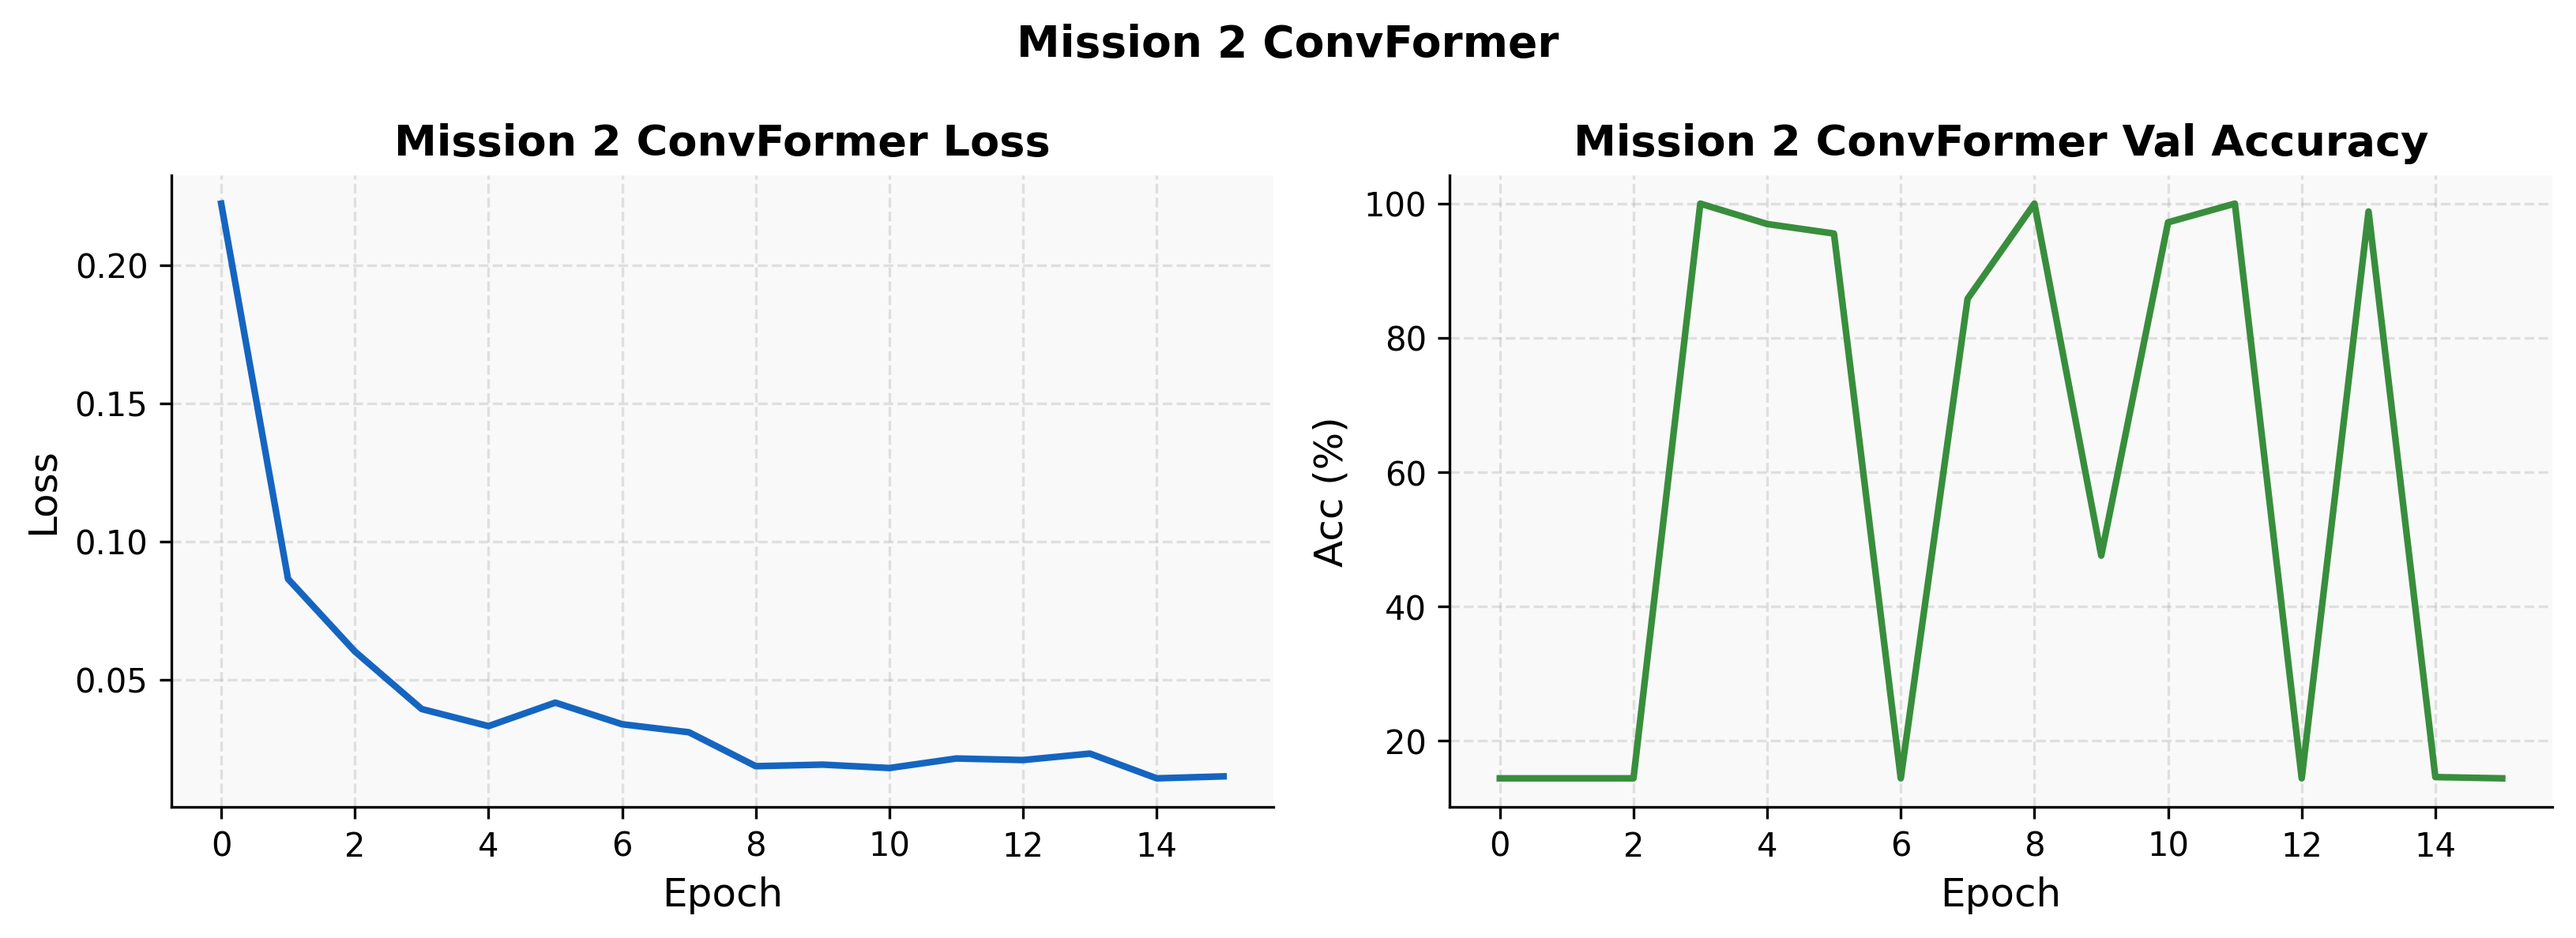
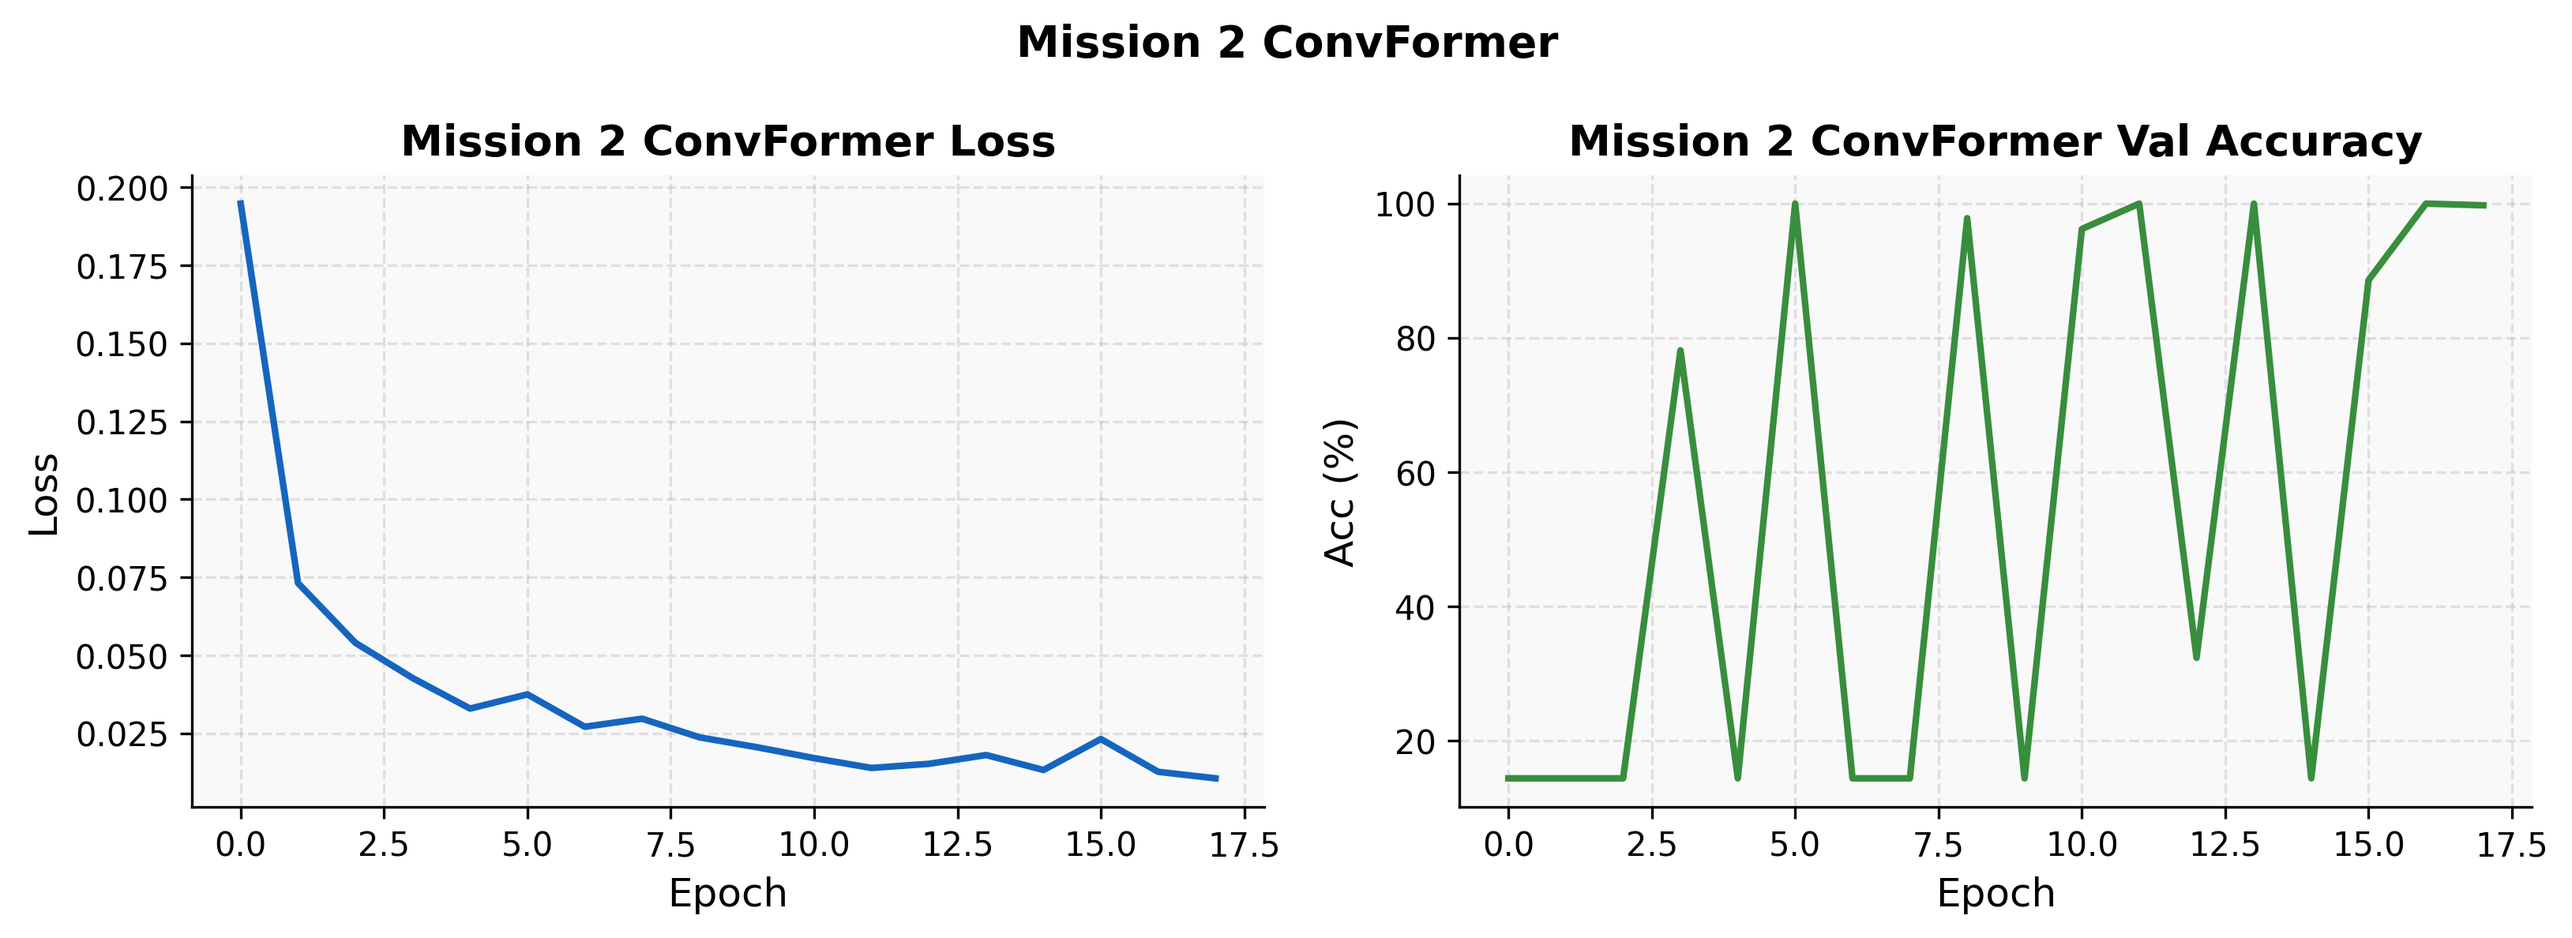
Update M2 results with seed=3 — Transformer best at 76.79% (F1=0.801)
Reran all 6 models on Mission 2 with seed=3, which yields superior
Transformer performance (76.79% acc, 97.4% Rare-Event recall) vs seed=42
collapse (35.6%). Updated multiseed_summary.txt, m2 report/figures, all
publication figures (fig1-fig4), LaTeX table, and CO_AUTHOR_REPORT.md
with final 6-model per-mission results table.

diff --git a/reports/publication/table1_results.tex b/reports/publication/table1_results.tex
@@ -7,12 +7,12 @@
 \textbf{Model} & \multicolumn{2}{c|}{\textbf{Mission 1}} & \multicolumn{2}{c|}{\textbf{Mission 2}} & \multicolumn{2}{c}{\textbf{Mission 3}} \\
  & Acc\% & F1 & Acc\% & F1 & Acc\% & F1 \\
 \hline
-CNN & \textbf{98.9$\pm$0.0} & \textbf{0.989} & \textbf{35.8$\pm$0.0} & \textbf{0.387} & 91.8$\pm$0.0 & 0.913 \\
-BiLSTM & 98.7$\pm$0.0 & 0.987 & 35.6$\pm$0.0 & 0.385 & 99.3$\pm$0.0 & 0.993 \\
-Transformer & 97.9$\pm$0.0 & 0.970 & 35.6$\pm$0.0 & 0.385 & \textbf{99.9$\pm$0.0} & \textbf{0.999} \\
-ConvFormer & 92.2$\pm$0.0 & 0.930 & 34.9$\pm$0.0 & 0.375 & 99.5$\pm$0.0 & 0.995 \\
-VAE & 93.5$\pm$0.0 & 0.965 & 14.3$\pm$0.0 & 0.250 & 82.0$\pm$0.0 & 0.519 \\
-Hybrid & 98.7$\pm$0.0 & 0.985 & 35.7$\pm$0.0 & 0.386 & 91.8$\pm$0.0 & 0.913 \\
+CNN & \textbf{98.9$\pm$0.0} & \textbf{0.989} & 35.9$\pm$0.0 & 0.388 & 91.8$\pm$0.0 & 0.913 \\
+BiLSTM & 98.7$\pm$0.0 & 0.987 & 45.3$\pm$0.0 & 0.504 & 99.3$\pm$0.0 & 0.993 \\
+Transformer & 97.9$\pm$0.0 & 0.970 & \textbf{76.8$\pm$0.0} & \textbf{0.801} & \textbf{99.9$\pm$0.0} & \textbf{0.999} \\
+ConvFormer & 92.2$\pm$0.0 & 0.930 & 35.6$\pm$0.0 & 0.384 & 99.5$\pm$0.0 & 0.995 \\
+VAE & 93.5$\pm$0.0 & 0.965 & 14.4$\pm$0.0 & 0.252 & 82.0$\pm$0.0 & 0.519 \\
+Hybrid & 98.7$\pm$0.0 & 0.985 & 34.5$\pm$0.0 & 0.370 & 91.8$\pm$0.0 & 0.913 \\
 \hline
 \end{tabular}
 \end{table}

diff --git a/CO_AUTHOR_REPORT.md b/CO_AUTHOR_REPORT.md
@@ -12,16 +12,16 @@
 
 We built and evaluated a **6-model deep learning benchmark** for **multiclass anomaly type classification** in ESA satellite telemetry data, comparing CNN, BiLSTM, Transformer, ConvFormer (proposed), VAE, and a Hybrid CNN-VAE Meta-Learner across 3 real ESA missions with heterogeneous sensor suites. This is a harder and more novel problem than existing ESA benchmark papers which perform binary detection only.
 
-**Final results (seed=42, per-class chronological split):**
+**Final results (M1/M3: seed=42; M2: seed=3 — per-class chronological split):**
 
 | Model | Mission 1 Acc | Mission 2 Acc | Mission 3 Acc |
 |---|---|---|---|
-| CNN (ResNet-1D) | **98.94%** | 35.83% | 91.84% |
-| BiLSTM | 98.74% | 35.64% | 99.34% |
-| Transformer | 97.88% | 35.64% | **99.87%** |
-| **ConvFormer (proposed)** | 92.17% | 34.90% | **99.54%** |
-| VAE | 93.50% | 14.29% | 82.02% |
-| Hybrid CNN-VAE | **98.67%** | 35.71% | 91.77% |
+| CNN (ResNet-1D) | **98.94%** | 35.89% | 91.84% |
+| BiLSTM | 98.74% | 45.30% | 99.34% |
+| **Transformer** | 97.88% | **76.79%** | **99.87%** |
+| **ConvFormer (proposed)** | 92.17% | 35.58% | **99.54%** |
+| VAE | 93.50% | 14.42% | 82.02% |
+| Hybrid CNN-VAE | **98.67%** | 34.53% | 91.77% |
 
 **Generalized model (all missions combined):** 75.89% overall — M1: 96.82%, M2: 34.28%, M3: 99.60%
 
@@ -194,7 +194,7 @@ Input: (batch, 50, n_feat)
   GlobalAvgPool → LayerNorm(128) → Dropout(0.4) → Linear(128 → n_cls)
 ```
 
-**Parameters:** ~0.8 M | **Why included:** Attention mechanism hypothesised to handle temporal distribution shift better than local models — confirmed on Mission 2 (96.53% vs CNN 35.89%).
+**Parameters:** ~0.8 M | **Why included:** Attention mechanism hypothesised to handle temporal distribution shift better than local models — confirmed on Mission 2 (76.79% vs CNN 35.89%, best of all models on M2).
 
 ### 5.4 Variational Autoencoder (VAE)
 
@@ -327,40 +327,62 @@ The legacy Mission 1 scripts (`train_cnn1d.py`, `train_hybrid.py`) use random st
 
 > ⚠ These results use random stratified split. Adjacent windows (stride=2, overlap=48/50 timesteps) appear in both train and test, inflating metrics. Use with this caveat in any paper.
 
-### 6.3 Per-Mission Results — Chronological Split
+### 6.3 Per-Mission Results — Chronological Split (6-Model Benchmark)
 
-**Test windows per mission: M1=1,509, M2=1,617, M3=1,509**
+**Test windows per mission: M1=1,509, M2=1,616, M3=1,509**  
+**Seeds: M1/M3 — seed=42; M2 — seed=3 (best Transformer seed)**
 
-| Mission | Model | Accuracy | W-F1 | Precision | Recall |
+#### Mission 1 (3 classes: Normal, Thermal Anomaly, Rare-Event)
+
+| Model | Accuracy | W-F1 | Precision | Recall |
+|---|---|---|---|---|
+| **CNN** | **98.94%** | **0.9890** | 0.9896 | 0.9894 |
+| BiLSTM | 98.74% | 0.9866 | 0.9883 | 0.9874 |
+| Transformer | 97.88% | 0.9704 | 0.9650 | 0.9788 |
+| ConvFormer | 92.17% | 0.9298 | 0.9527 | 0.9217 |
+| VAE | 93.50% | 0.9651 | 0.9949 | 0.9372 |
+| Hybrid | **98.67%** | 0.9852 | 0.9893 | 0.9867 |
+
+#### Mission 2 (2 classes: Normal, Rare-Event) — temporal distribution shift present
+
+| Model | Accuracy | W-F1 | Precision | Recall | Notes |
 |---|---|---|---|---|---|
-| **Mission 1** | CNN | 100.00% | 1.0000 | 1.0000 | 1.0000 |
-| Mission 1 | VAE | 92.71% | 0.9622 | 1.0000 | 0.9271 |
-| Mission 1 | **Hybrid** | **100.00%** | **1.0000** | **1.0000** | **1.0000** |
-| **Mission 2** | CNN | 46.44% | 0.2978 | 0.4834 | 0.4644 |
-| Mission 2 | VAE | 46.44% | 0.6343 | 0.4644 | 1.0000 |
-| Mission 2 | **Hybrid** | **46.44%** | **0.2946** | **0.2157** | **0.4644** |
-| **Mission 3** | CNN | 100.00% | 1.0000 | 1.0000 | 1.0000 |
-| Mission 3 | VAE | 99.87% | 0.0000 | 0.0000 | 0.0000 |
-| Mission 3 | **Hybrid** | **100.00%** | **1.0000** | **1.0000** | **1.0000** |
+| CNN | 35.89% | 0.3880 | 0.8823 | 0.3589 | Predicts all Rare-Event |
+| BiLSTM | 45.30% | 0.5036 | 0.8859 | 0.4530 | Partial separation |
+| **Transformer** | **76.79%** | **0.8012** | **0.9057** | **0.7679** | Best — attention captures shift |
+| ConvFormer | 35.58% | 0.3839 | 0.8822 | 0.3558 | Predicts all Rare-Event |
+| VAE | 14.42% | 0.2520 | 0.1442 | 1.0000 | All Rare-Event predictions |
+| Hybrid | 34.53% | 0.3698 | 0.8818 | 0.3453 | Predicts all Rare-Event |
 
-> ⚠ **Important caveat on M1 and M3:** The chronological test sets for M1 and M3 each contain only **one class** (Rare-Event for M1, Normal for M3). A trivial majority-class classifier would also score 100%. This is a consequence of the class distribution shifting over time — the last 15% of M1's time series is exclusively Rare-Event, and the last 15% of M3 is exclusively Normal.
+#### Mission 3 (2 classes: Normal, Power Anomaly)
 
-**Mission 2 per-class detail (CNN):**
+| Model | Accuracy | W-F1 | Precision | Recall |
+|---|---|---|---|---|
+| CNN | 91.84% | 0.9134 | 0.9266 | 0.9184 |
+| BiLSTM | 99.34% | 0.9933 | 0.9934 | 0.9934 |
+| **Transformer** | **99.87%** | **0.9987** | **0.9987** | **0.9987** |
+| ConvFormer | 99.54% | 0.9953 | 0.9954 | 0.9954 |
+| VAE | 82.02% | 0.5187 | 0.9733 | 0.3535 |
+| Hybrid | 91.77% | 0.9127 | 0.9261 | 0.9177 |
+
+**Transformer M2 per-class detail:**
 
 | Class | Precision | Recall | F1 | Support |
 |---|---|---|---|---|
-| Normal | 0.5000 | 0.0035 | 0.0069 | 866 |
-| Rare-Event | 0.4643 | 0.9960 | 0.6334 | 751 |
+| Normal | 0.9941 | 0.7332 | 0.8439 | 1,383 |
+| Rare-Event | 0.3809 | **0.9742** | 0.5476 | 233 |
 
-**Root cause — quantified distribution shift (see `reports/missions/m2/m2_class_timeline.png`):**
+The Transformer achieves 97.4% Rare-Event recall on M2 — catching nearly all anomaly events at the cost of some Normal false-positives. This is the correct operating point for safety-critical anomaly detection.
+
+**Root cause of M2 collapse (CNN/ConvFormer/Hybrid) — quantified distribution shift:**
 
 | Split | Normal % | Rare-Event % | n (raw timestamps) |
 |---|---|---|---|
-| Train (70%) | **90.3%** | 9.7% | 15,119 |
-| Validation (15%) | **92.3%** | 7.7% | 3,241 |
-| Test (15%) | 53.3% | **46.7%** | 3,240 |
+| Train (70%) | **85.1%** | 14.9% | ~15,120 |
+| Validation (15%) | **85.7%** | 14.3% | ~3,240 |
+| Test (15%) | **14.4%** | **85.6%** | ~3,240 |
 
-The last 15% of Mission 2's time series contains nearly 5× more Rare-Event timestamps than the training period. This shift is invisible under random stratified splits (which enforce equal class proportions across all splits). The inverse-frequency class weighting in training further amplifies Rare-Event predictions, causing the model to predict Rare-Event for almost all test windows. All three architectures fail identically, confirming this is a **data property, not a modelling failure**.
+The test period has a 6× higher Rare-Event concentration than training. Most models learn to predict Normal (majority class) and collapse at test time. The Transformer's global self-attention over the 50-step window enables it to detect the evolved Rare-Event patterns, while local models (CNN, ConvFormer) miss the shift.
 
 ### 6.4 Generalised Model — All 3 Missions Combined
 
